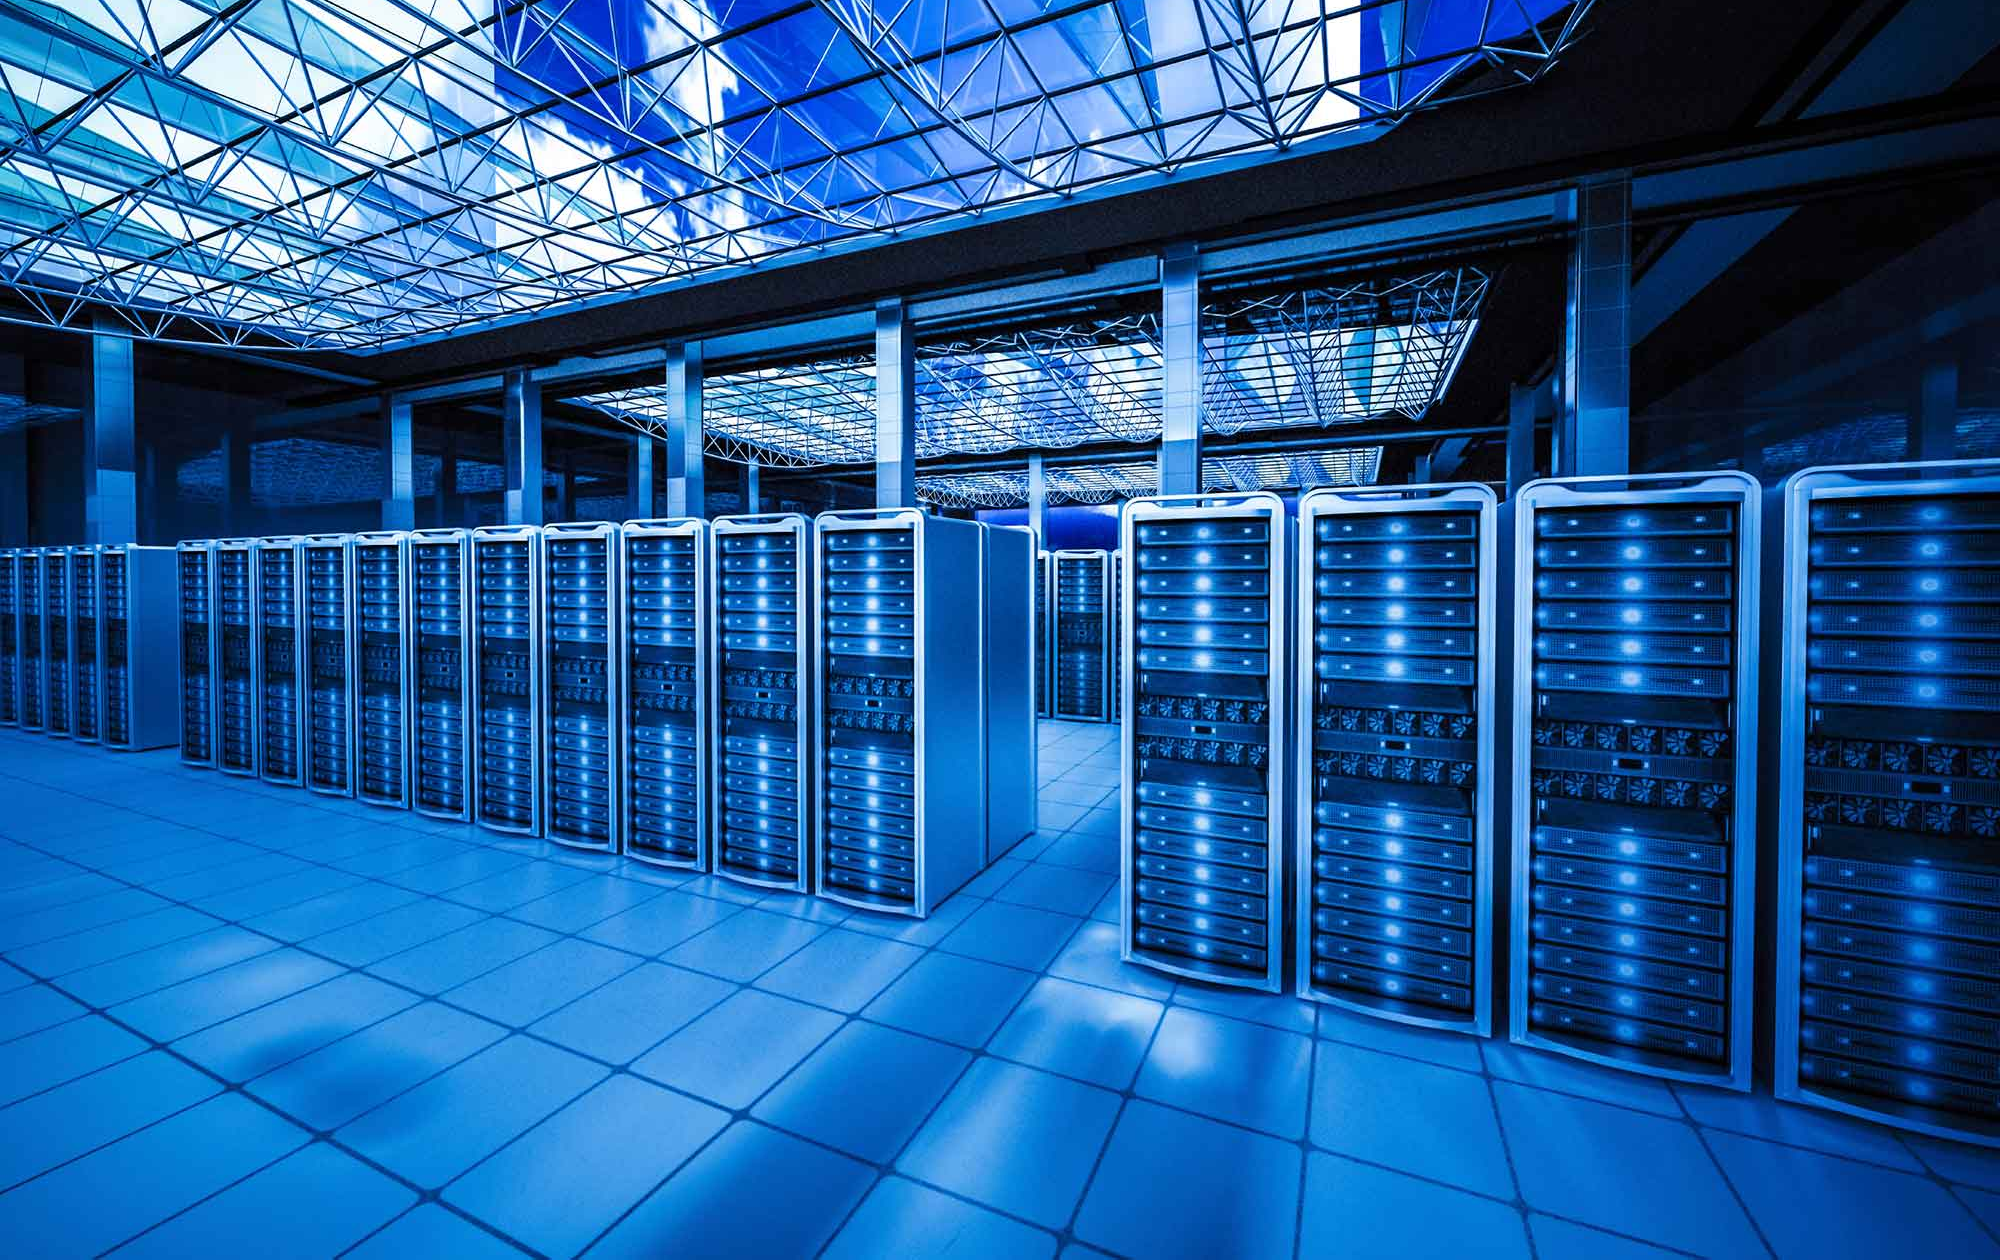
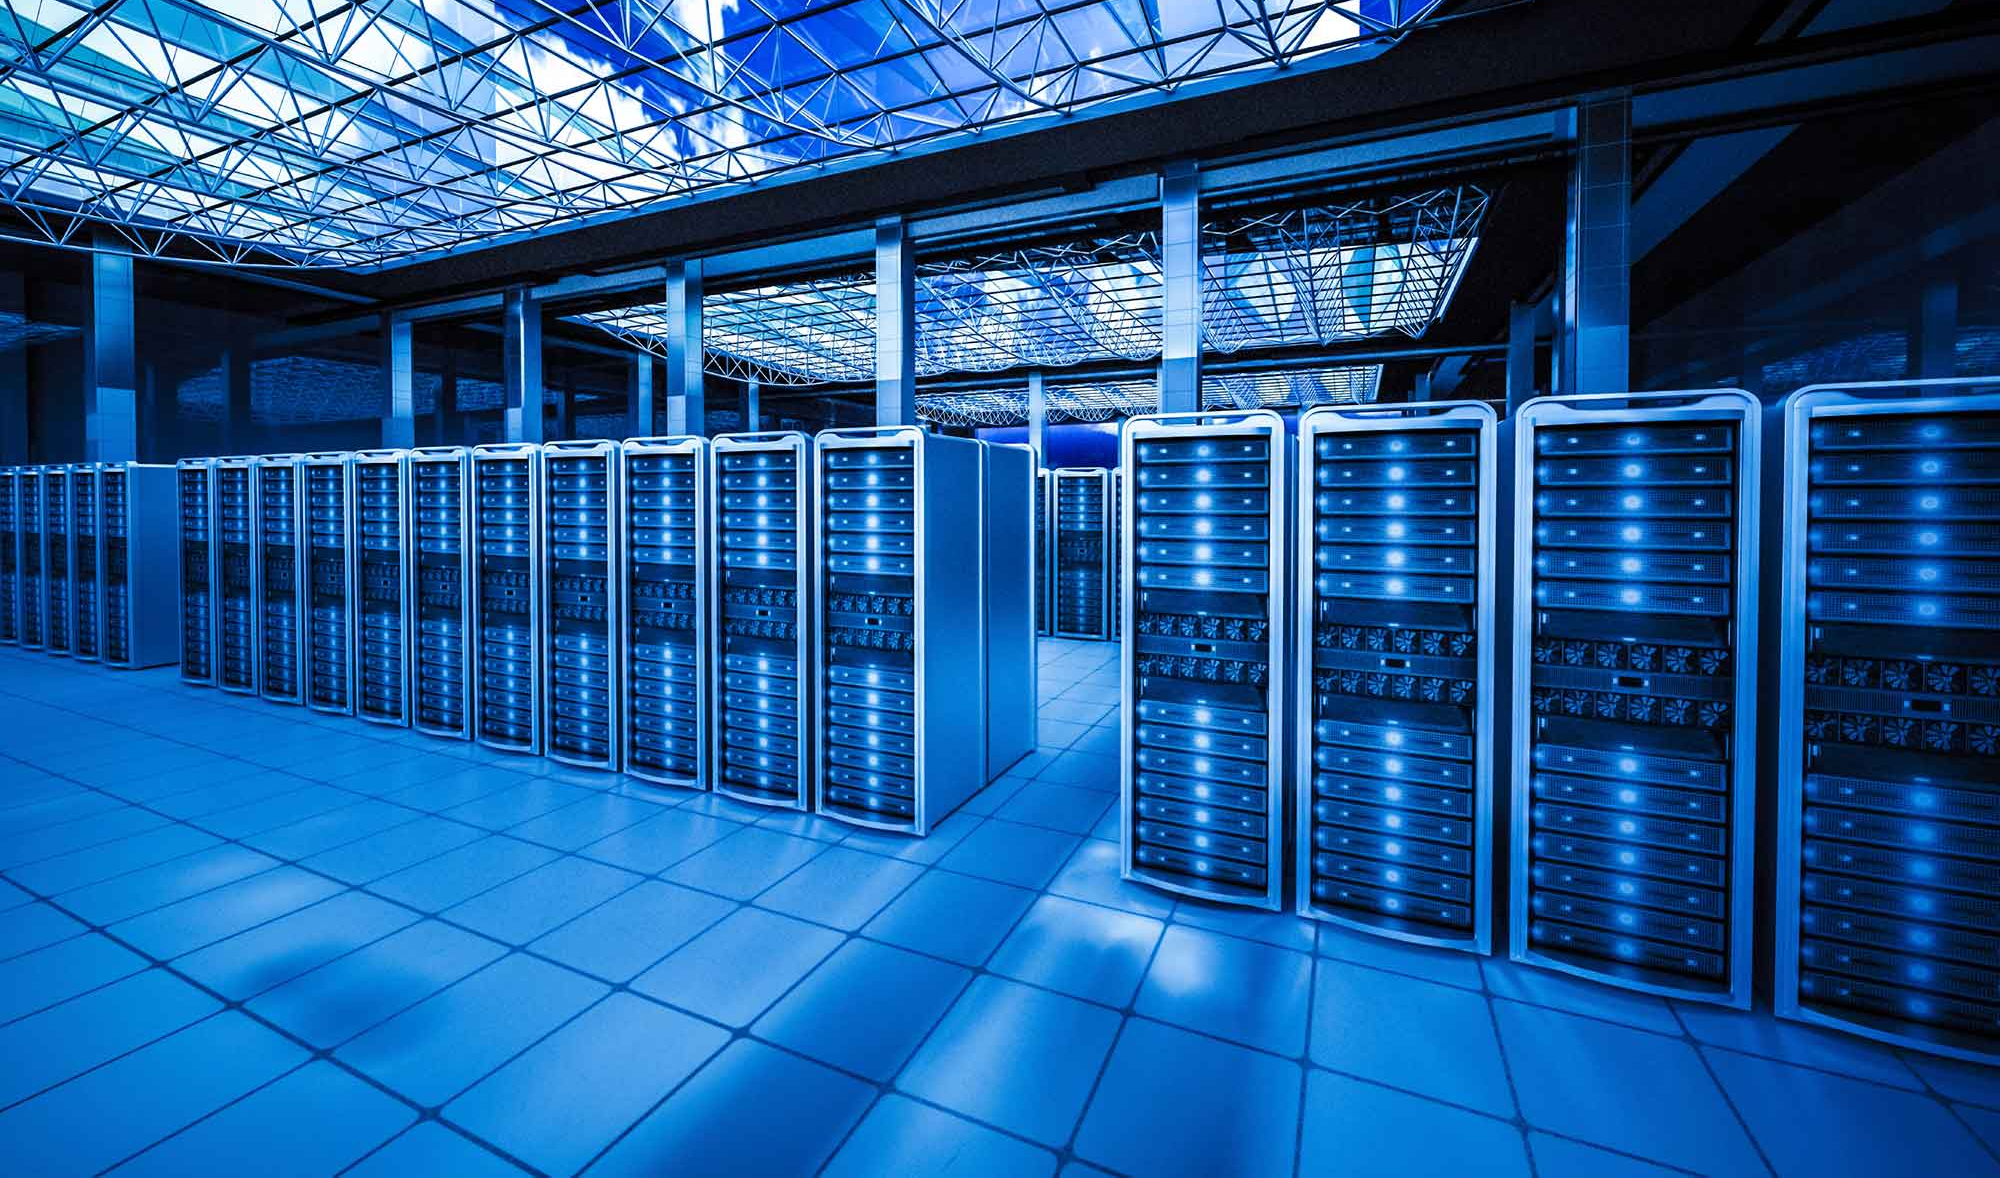
Edited data

diff --git a/content/reports/conspiracy_brief/index.md b/content/reports/conspiracy_brief/index.md
@@ -1,5 +1,5 @@
 ---
-title: The relevance and role of Tenet Media personalities in Canadian political discussion 
+title: Conspiratorial Claims and Institutional Distrust in Canada’s Online Ecosystem 
 summary: Evaluating the spread and belief of anti-institutional conspiratorial claims within the Canadian information ecosystem. (CMTD – February 2026)
 # tags:
 #   - Demo

diff --git a/content/reports/tenet_report/index.md b/content/reports/tenet_report/index.md
@@ -1,5 +1,5 @@
 ---
-title: Conspiratorial Claims and Institutional Distrust in Canada’s Online Ecosystem
+title: The relevance and role of Tenet Media personalities in Canadian political discussion
 summary: Exploring Russian narratives among the Tenet Media influencers and its influence on Canadian political discourse. (MEO – November 2024)
 # tags:
 #   - Demo

diff --git a/content/authors/admin/_index.md b/content/authors/admin/_index.md
@@ -21,8 +21,8 @@ role: Research Engineer
 
 # Organizations/Affiliations to show in About widget
 organizations:
-  - name: McGill University
-    url: https://www.cs.mcgill.ca/
+  - name: Centre for Media, Technology, and Democracy
+    url: https://www.mediatechdemocracy.com/
 
 # Short bio (displayed in user profile at end of posts)
 bio: ''
